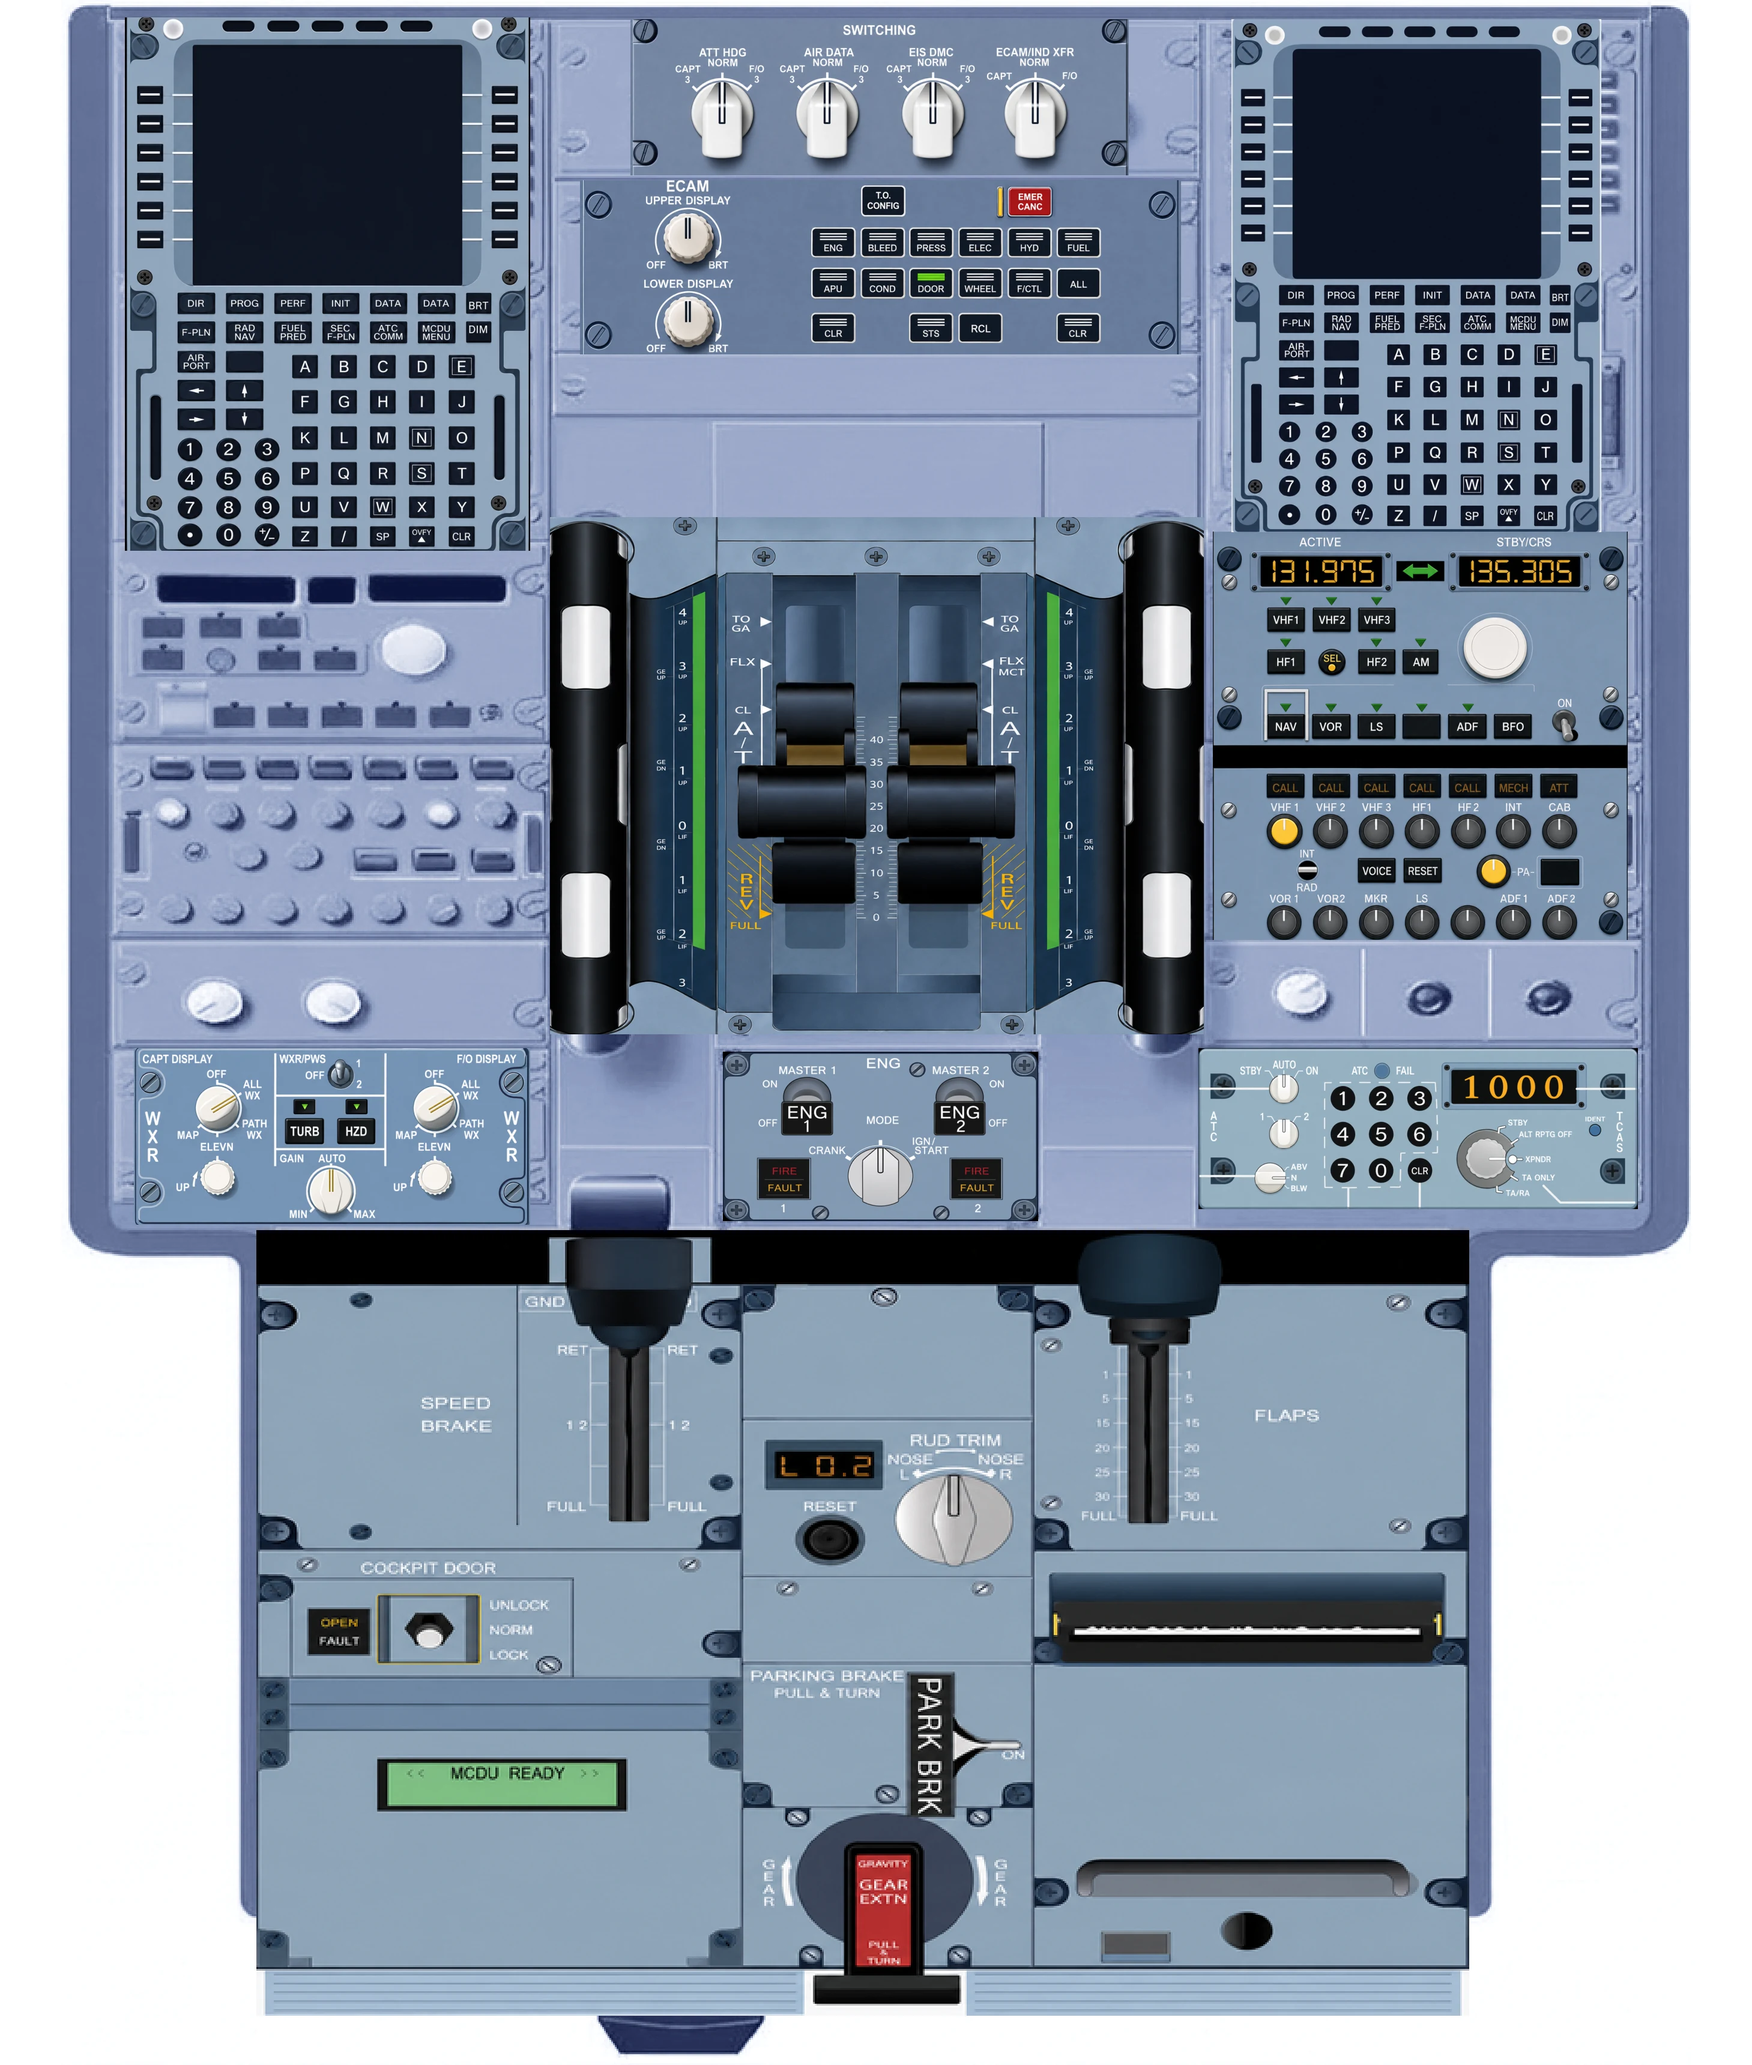
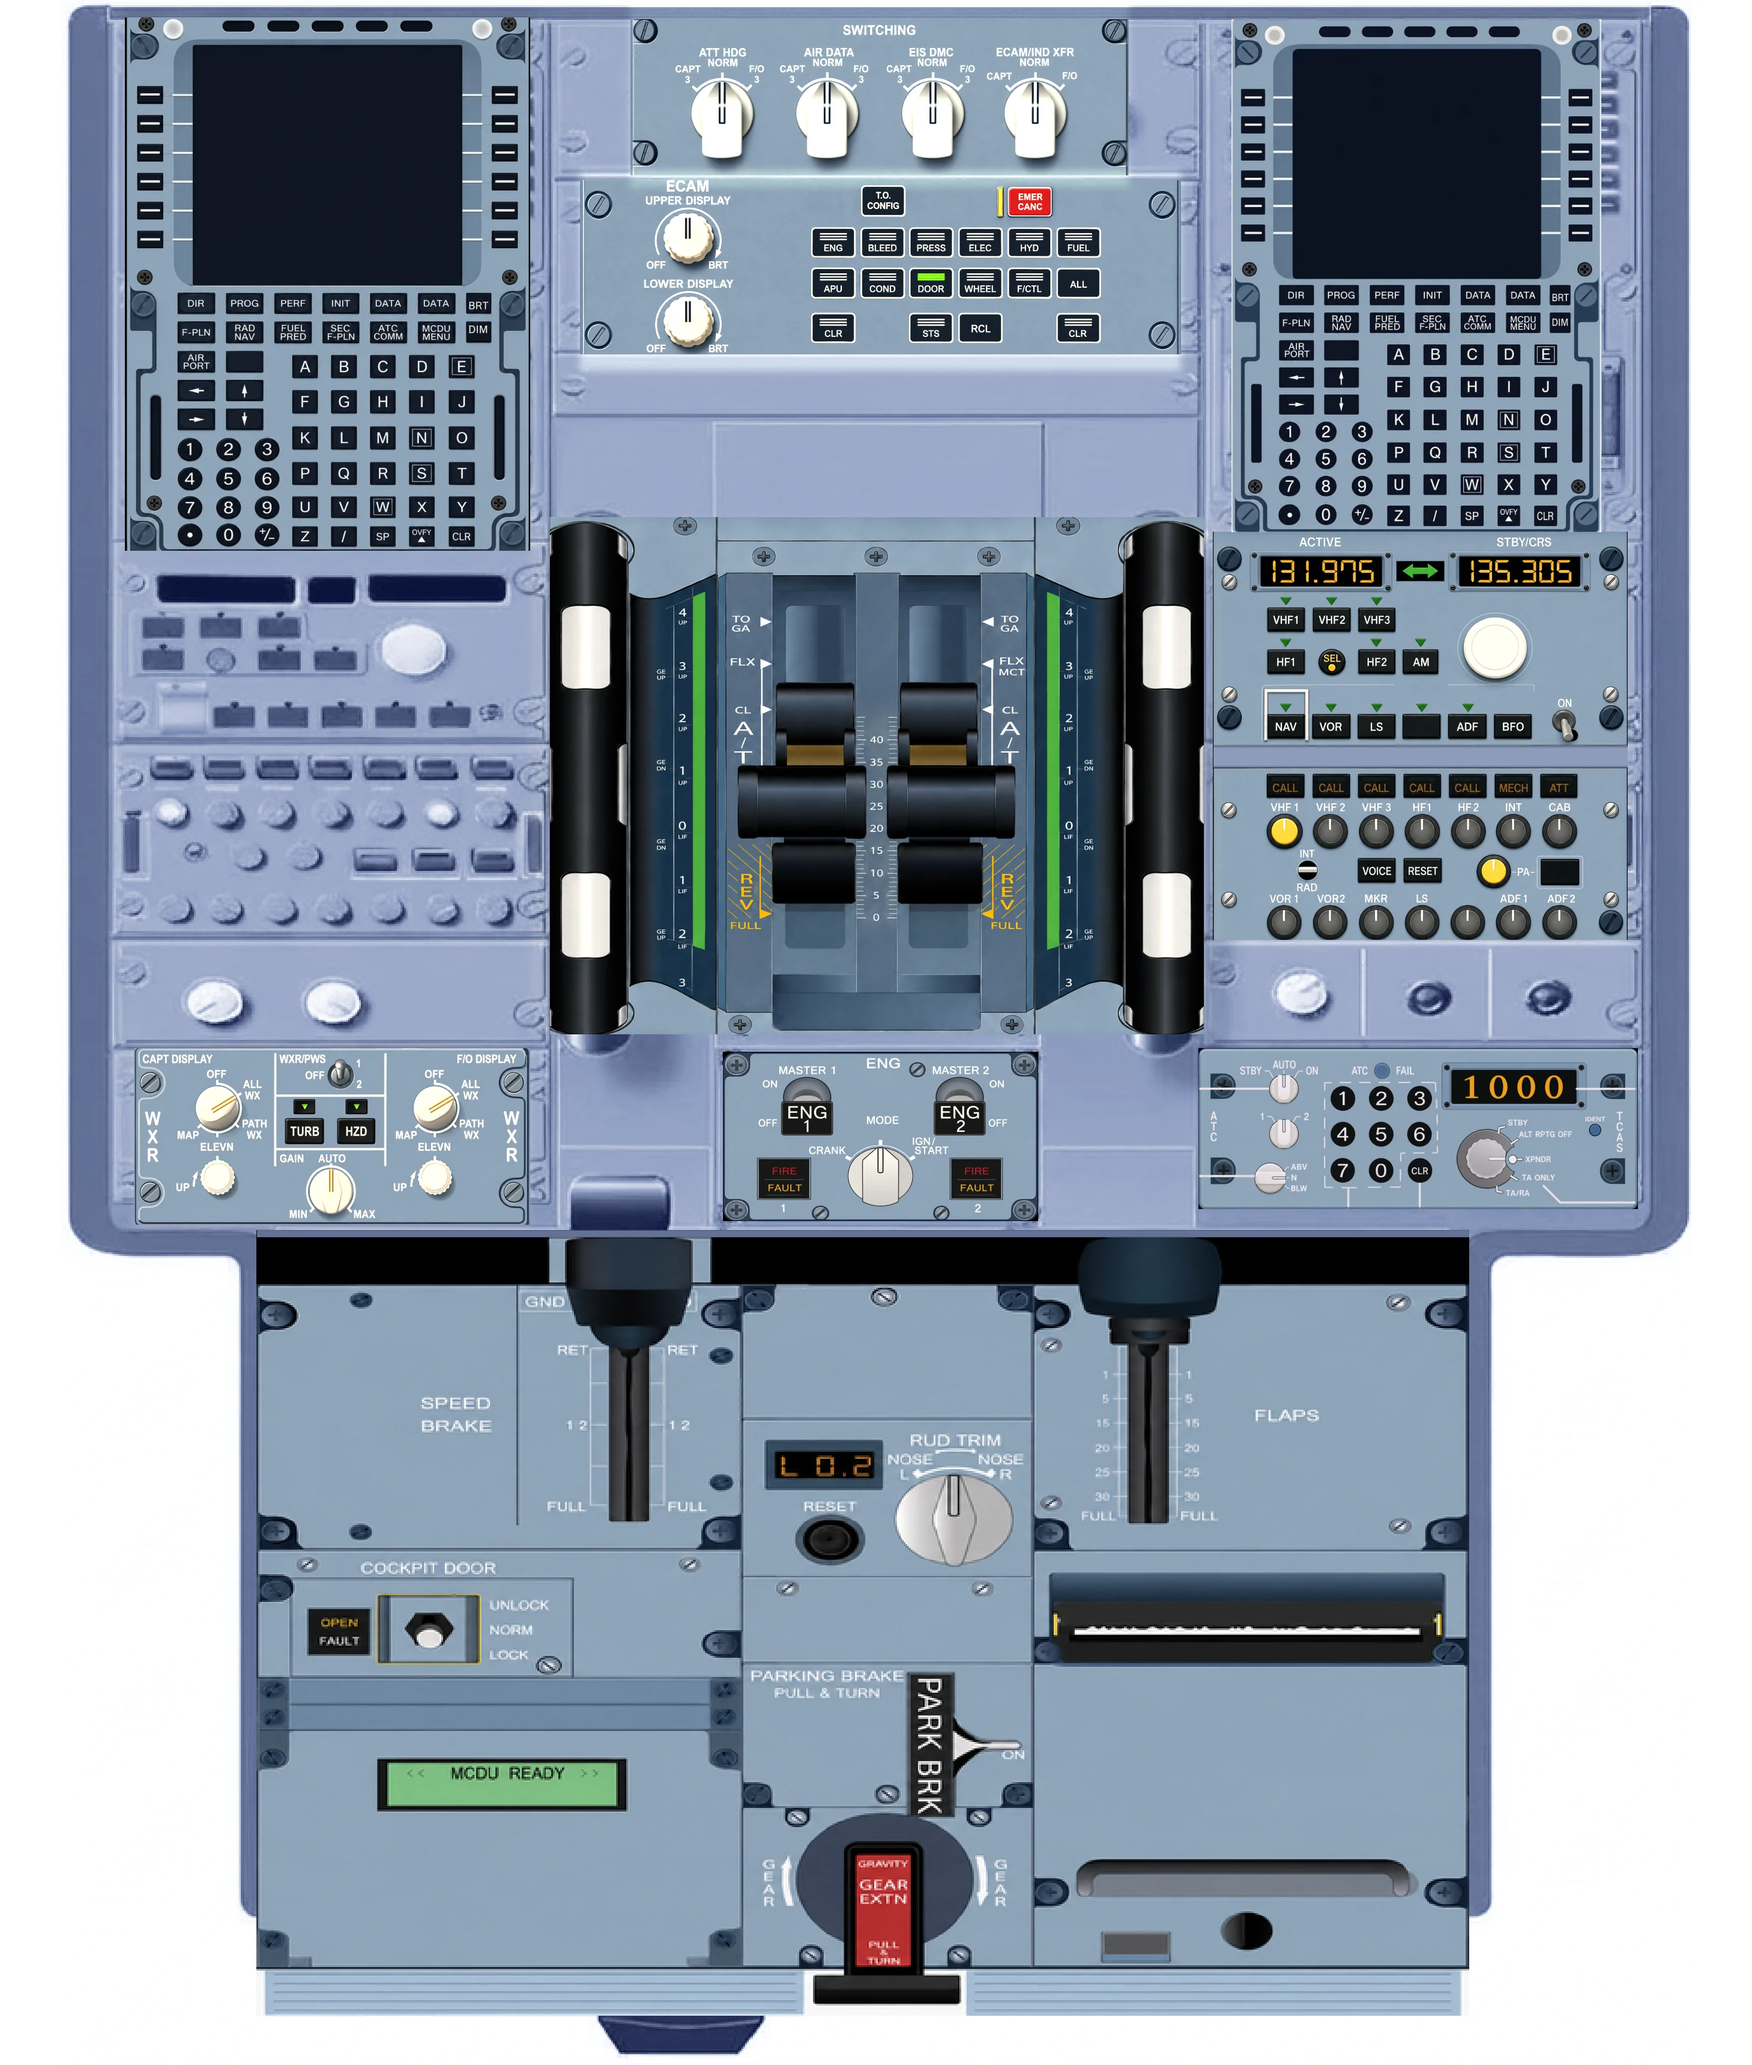
fix(pedestal): กลืนชิ้นแผงที่แปะลงบนโครงให้เป็นเนื้อเดียว
ชิ้นที่ generate มาแล้วแปะลงโครงมีโทนสีไม่เท่ากันเลย (ความสว่าง 129-173 เทียบโครง 163)
ตาคนอ่านออกทันทีว่าเป็นภาพตัดต่อ ปรับ 9 ชิ้นเข้าหาโทนโครงด้วย mask ไล่ระดับ 6px
ที่ขอบ ไม่ใช้การเบลอรอยต่อเพราะจะทำให้รายละเอียดจริงเสียไปด้วย

แถบดำสนิท 2 จุดในชิ้น (ช่องว่างที่ติดมากับรูป) แทนด้วยสีร่องที่หยิบจากโครงข้างเคียง
พร้อมเส้นเงาบางที่ขอบ เพราะร่องจริงทุกร่องในโครงเป็นฟ้าเทาอ่อน ไม่มีดำสนิทที่ไหน

ไม่แตะแท่งดำแนวตั้งข้างคันเร่ง — ตรวจแล้วเป็นรางคันเร่งของจริง ไม่ใช่รอยตัดต่อ

Generated with [Devin](https://devin.ai)

Changed region(s): [[0.3119, 0.0, 0.6861, 0.1867], [0.0624, 0.498, 0.842, 0.6225], [0.6861, 0.3424, 0.9356, 0.3735]]

diff --git a/scripts/build-panel-images.py b/scripts/build-panel-images.py
@@ -142,6 +142,159 @@ def recolor_green(img: Image.Image, panel_id: str) -> None:
     )
 
 
+# ---------------------------------------------------------------- กลืนชิ้นที่แปะ
+# รูปแผงย่อยที่ generate มาถูกแปะลงบนโครง pedestal โดยโทนสีของแต่ละชิ้นไม่เท่ากัน
+# (วัดได้ความสว่าง 129-172 เทียบกับโครงที่ 163) ตาคนจับได้ทันทีว่าเป็นภาพตัดต่อ
+# ขั้นนี้ปรับโทนแต่ละชิ้นเข้าหาโทนของโครง แล้วไล่ระดับที่ขอบเพื่อไม่ให้เห็นรอยต่อ
+BLEND_PANELS = {"pedestal"}
+# ชิ้นที่กินพื้นที่เกินเท่านี้ถือเป็น "โครง" ไม่ใช่ชิ้นที่แปะ ห้ามปรับ (มันคือตัวอ้างอิงโทน)
+FRAME_AREA_RATIO = 0.5
+# ต่างจากโทนโครงน้อยกว่านี้ถือว่ากลืนอยู่แล้ว ไม่ต้องแตะ
+BLEND_MIN_DELTA = 3.0
+# ระยะไล่ระดับที่ขอบชิ้น (px) — ต้องกว้างพอให้ตาไม่เห็นขั้น แต่ไม่กว้างจนโทนเพี้ยนเข้าไปในชิ้น
+BLEND_FEATHER = 6
+
+
+def piece_rects(pdf_path: Path, target_w: int) -> list[tuple[int, int, int, int]]:
+    """พิกัดของรูปย่อยทุกชิ้นที่ถูกแปะลงในหน้า แปลงเป็น px ของรูปที่ render แล้ว"""
+    doc = fitz.open(pdf_path)
+    page = doc[0]
+    scale = target_w / page.rect.width
+    rects = []
+    for img in page.get_images(full=True):
+        for r in page.get_image_rects(img[0]):
+            rects.append(
+                (round(r.x0 * scale), round(r.y0 * scale), round(r.x1 * scale), round(r.y1 * scale))
+            )
+    doc.close()
+    return rects
+
+
+def plate_tone(region: np.ndarray) -> np.ndarray | None:
+    """
+    โทนของ 'แผ่นพื้นแผง' = median ของพิกเซลกลางโทน
+    ตัดปุ่มสีดำกับตัวอักษรขาวออก ไม่งั้นค่าจะวิ่งตามจำนวนปุ่มในชิ้นนั้นแทนที่จะเป็นสีแผง
+    """
+    flat = region.reshape(-1, 3)
+    lum = flat.mean(axis=1)
+    plate = flat[(lum > 110) & (lum < 210)]
+    return np.median(plate, axis=0) if len(plate) >= 100 else None
+
+
+def blend_pieces(img: Image.Image, panel_id: str, pdf_path: Path, target_w: int) -> None:
+    if panel_id not in BLEND_PANELS:
+        return
+    arr = np.array(img).astype(float)
+    h, w = arr.shape[:2]
+    page_area = h * w
+
+    rects = piece_rects(pdf_path, target_w)
+    frames = [r for r in rects if (r[2] - r[0]) * (r[3] - r[1]) > page_area * FRAME_AREA_RATIO]
+    if not frames:
+        print("     blend: หาโครงอ้างอิงไม่ได้ ข้าม")
+        return
+    fx0, fy0, fx1, fy1 = max(frames, key=lambda r: (r[2] - r[0]) * (r[3] - r[1]))
+    target = plate_tone(arr[max(0, fy0) : fy1, max(0, fx0) : fx1])
+    if target is None:
+        print("     blend: วัดโทนโครงไม่ได้ ข้าม")
+        return
+    print(f"     blend: โทนโครงอ้างอิง RGB{tuple(target.astype(int))}")
+
+    adjusted = 0
+    for x0, y0, x1, y1 in rects:
+        x0, y0 = max(0, x0), max(0, y0)
+        x1, y1 = min(w, x1), min(h, y1)
+        if (x1 - x0) * (y1 - y0) > page_area * FRAME_AREA_RATIO:
+            continue  # โครง ไม่ใช่ชิ้นแปะ
+        tone = plate_tone(arr[y0:y1, x0:x1])
+        if tone is None:
+            continue
+        if abs(tone.mean() - target.mean()) < BLEND_MIN_DELTA:
+            continue
+        gain = target / np.maximum(tone, 1.0)
+
+        # mask ไล่ระดับ: ข้างในชิ้นปรับเต็มที่ ขอบค่อย ๆ ลดลงเป็นศูนย์
+        # ใช้วิธีนี้แทนการเบลอพิกเซลตรงรอยต่อ เพราะการเบลอจะทำให้รายละเอียดจริงเสียไปด้วย
+        mask = np.zeros((h, w), np.uint8)
+        mask[y0:y1, x0:x1] = 255
+        soft = (
+            np.array(Image.fromarray(mask).filter(ImageFilter.GaussianBlur(BLEND_FEATHER))).astype(
+                float
+            )
+            / 255.0
+        )[:, :, None]
+        arr = np.clip(arr * (1 + soft * (gain - 1)), 0, 255)
+        adjusted += 1
+        print(
+            f"       ชิ้น x{x0}-{x1} y{y0}-{y1}: โทน {tone.mean():.0f} -> {target.mean():.0f} "
+            f"(gain {np.round(gain, 3)})"
+        )
+
+    img.paste(Image.fromarray(arr.round().astype(np.uint8)))
+    print(f"     blend: ปรับโทน {adjusted} ชิ้น")
+
+
+# แถบดำสนิทที่ติดมากับรูปที่ generate (ช่องว่างระหว่างกล่องสองกล่องในชิ้นเดียวกัน)
+# ร่องจริงทุกร่องในโครง pedestal เป็นสีฟ้าเทาอ่อน (ความสว่าง 147-174) ไม่มีดำสนิทที่ไหนเลย
+# แถบดำจึงอ่านเป็น "รอยตัดต่อ" ทันที ต้องแทนด้วยสีร่องที่หยิบจากโครงข้างเคียง
+DARK_BAND_LUMA = 12
+DARK_BAND_MIN_HEIGHT = 5
+DARK_BAND_MIN_WIDTH_RATIO = 0.8
+
+
+def fill_dark_bands(img: Image.Image, panel_id: str, pdf_path: Path, target_w: int) -> None:
+    if panel_id not in BLEND_PANELS:
+        return
+    arr = np.array(img).astype(float)
+    h, w = arr.shape[:2]
+    lum = arr.mean(axis=2)
+    filled = 0
+
+    for x0, y0, x1, y1 in piece_rects(pdf_path, target_w):
+        x0, y0, x1, y1 = max(0, x0), max(0, y0), min(w, x1), min(h, y1)
+        if (x1 - x0) * (y1 - y0) > h * w * FRAME_AREA_RATIO:
+            continue
+        dark_frac = (lum[y0:y1, x0:x1] < DARK_BAND_LUMA).mean(axis=1)
+        rows = np.where(dark_frac > DARK_BAND_MIN_WIDTH_RATIO)[0] + y0
+        if len(rows) == 0:
+            continue
+        runs = []
+        start = prev = rows[0]
+        for y in rows[1:]:
+            if y == prev + 1:
+                prev = y
+                continue
+            runs.append((start, prev))
+            start = prev = y
+        runs.append((start, prev))
+
+        for r0, r1 in runs:
+            if r1 - r0 + 1 < DARK_BAND_MIN_HEIGHT:
+                continue
+            # สีร่อง: หยิบจากโครงที่อยู่ถัดออกไปด้านข้างของชิ้น ระดับความสูงเดียวกัน
+            samples = []
+            for sx0, sx1 in ((max(0, x0 - 40), max(1, x0 - 6)), (min(w - 1, x1 + 6), min(w, x1 + 40))):
+                strip = arr[r0 : r1 + 1, sx0:sx1].reshape(-1, 3)
+                bright = strip[strip.mean(axis=1) > 90]
+                if len(bright):
+                    samples.append(np.median(bright, axis=0))
+            if not samples:
+                continue
+            gap = np.median(np.stack(samples), axis=0)
+            band = np.tile(gap, (r1 - r0 + 1, x1 - x0, 1))
+            # เส้นเงาบาง ๆ ที่ขอบบน/ล่าง ให้อ่านเป็นร่องจริง ไม่ใช่แถบสีทึบแปะทับ
+            edge = max(1, (r1 - r0 + 1) // 12)
+            band[:edge] *= 0.72
+            band[-edge:] *= 0.82
+            arr[r0 : r1 + 1, x0:x1] = band
+            filled += 1
+            print(f"       แถบดำ y{r0}-{r1} (สูง {r1 - r0 + 1}px) -> สีร่อง RGB{tuple(gap.astype(int))}")
+
+    if filled:
+        img.paste(Image.fromarray(arr.round().clip(0, 255).astype(np.uint8)))
+    print(f"     gap: แทนแถบดำ {filled} จุด")
+
+
 def is_green(pixel: tuple[int, int, int]) -> bool:
     r, g, b = pixel[0], pixel[1], pixel[2]
     return g > 120 and g - r > 50 and g - b > 50
@@ -182,6 +335,8 @@ def main() -> int:
         print(f"  ↻ {panel_id}: render {img.width}x{img.height} จาก {pdf_name}")
         apply_patches(img, panel_id)
         recolor_green(img, panel_id)
+        blend_pieces(img, panel_id, pdf_path, target_w)
+        fill_dark_bands(img, panel_id, pdf_path, target_w)
         out = OUT_DIR / f"{panel_id}.webp"
         if not args.check:
             img.save(out, "WEBP", quality=WEBP_QUALITY, method=6)
